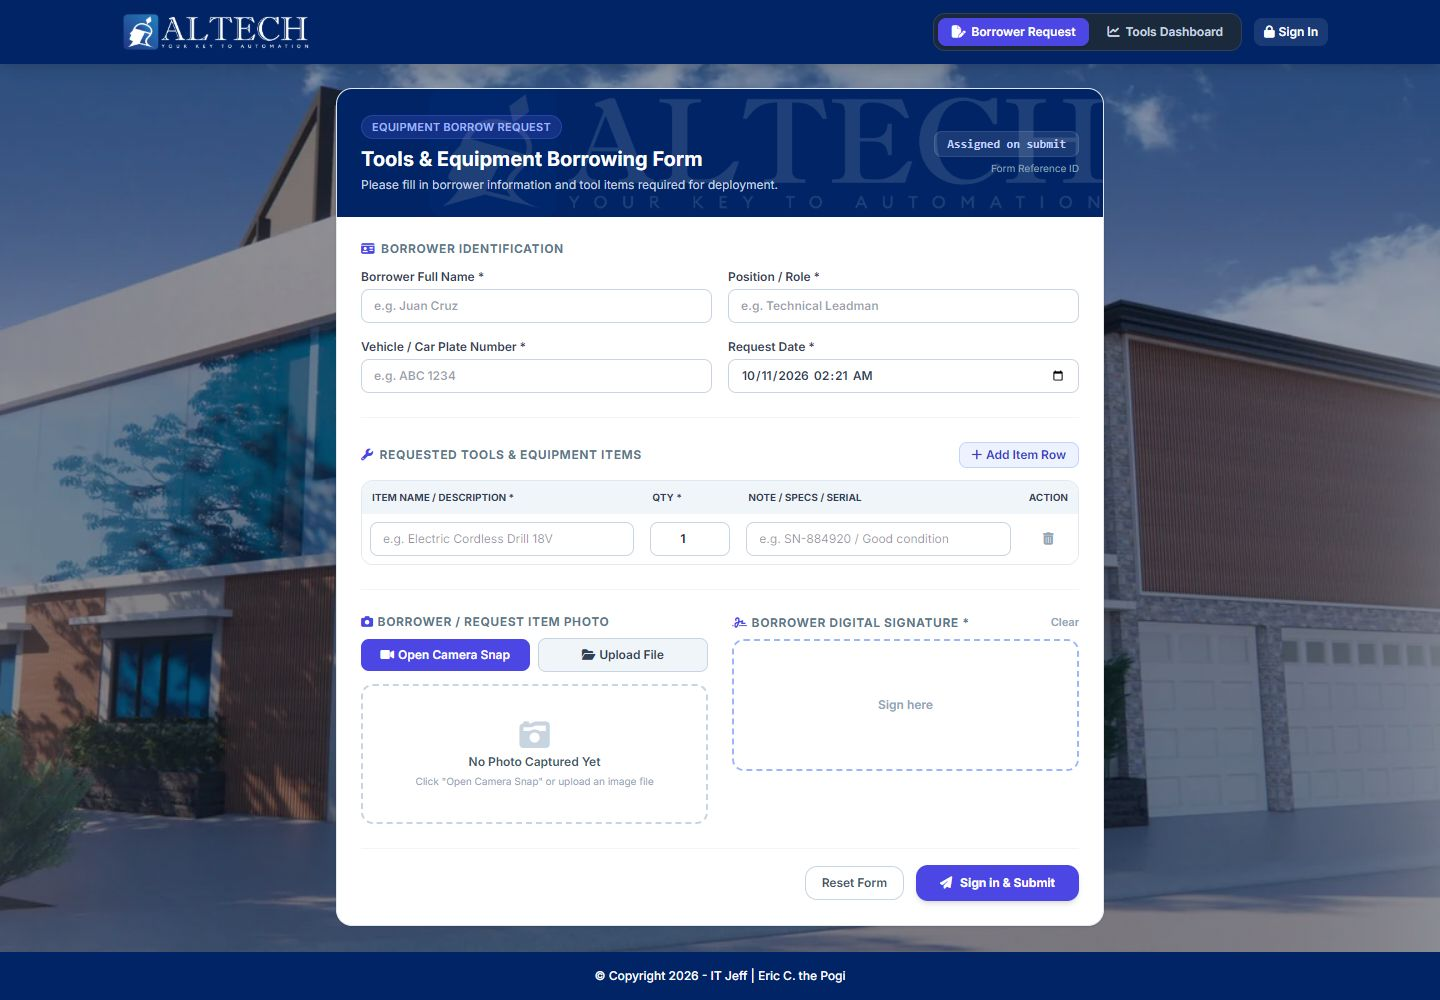
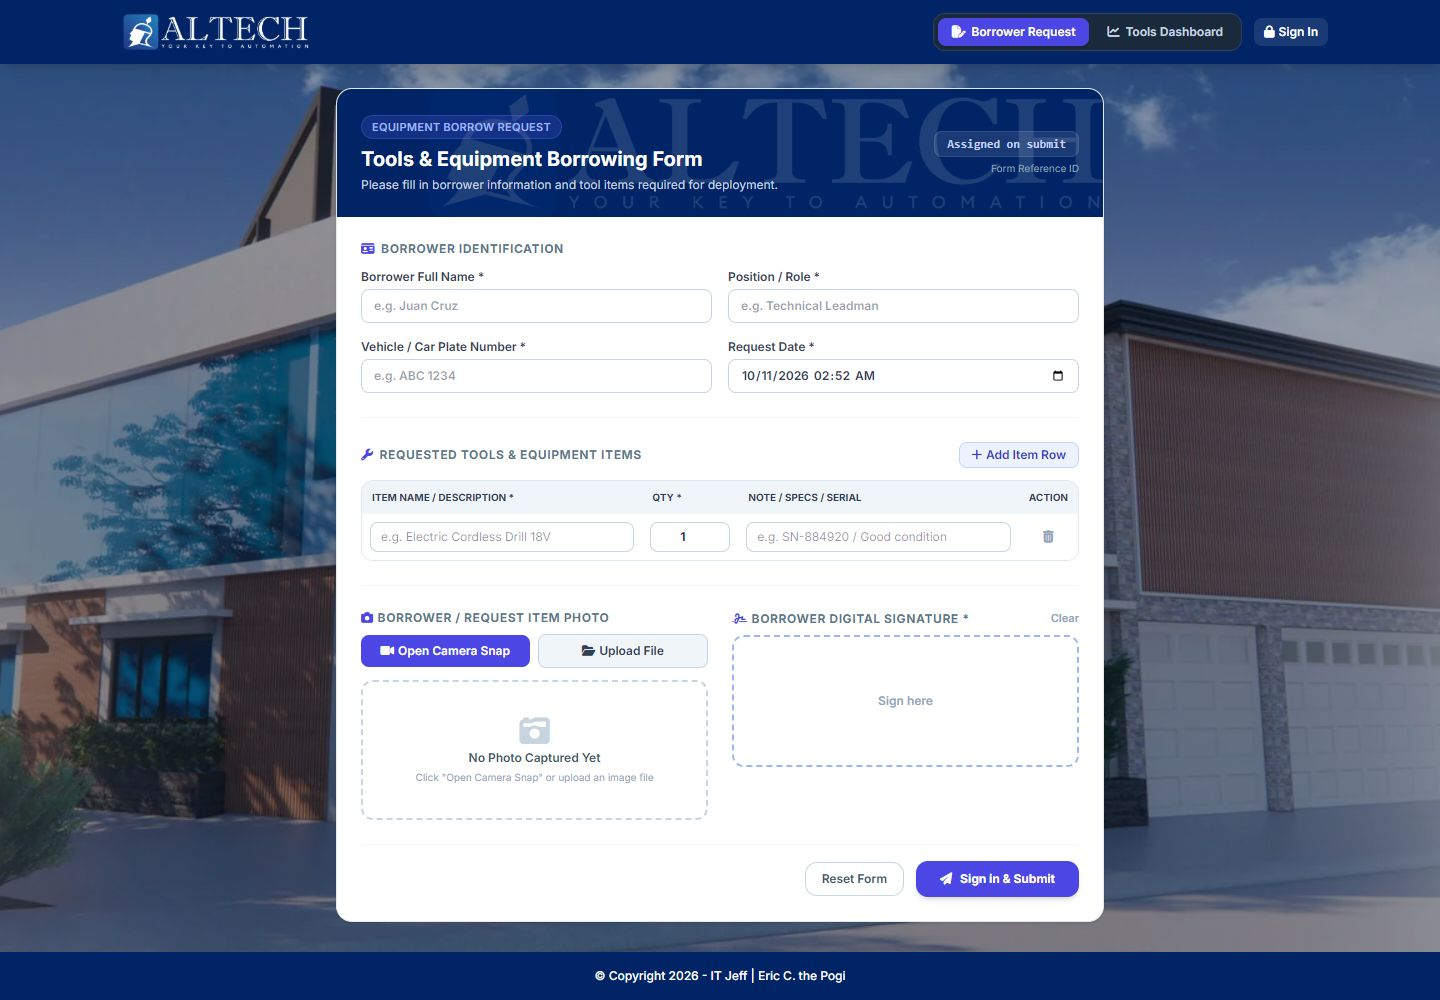
Document verified browser request lifecycle

diff --git a/docs/verification.md b/docs/verification.md
@@ -9,6 +9,7 @@
 - npm audit reports zero known vulnerabilities for the installed dependency tree. Sharp/Tailwind were upgraded; the ExcelJS UUID dependency is overridden to a patched compatible release. Catalog import uses the official SheetJS 0.20.3 distribution.
 - Browser preview connects to the live API. ALTECH logos, actual company background and header watermark load. Computed navbar/form hero/footer colors are rgb(0,35,102), exactly #002366.
 - Desktop viewport 1440×1000 and phone viewport 390×844 inspected. Phone document width is 375px (vertical scrollbar included), with no whole-page horizontal overflow; the tool table scrolls within its container. Added a second row, edited name/quantity, and reset back to one row in the browser.
+- Browser workflow passed against the live API: secure Developer login, selected-date submission, photo upload and pointer-drawn signature, dashboard counts, handover, complete return with another photo/signature, closed status and completed record lock. All four private images loaded after reopening the record. The synthetic request and its files were removed afterward to restore the clean preview database.
 - Git ignores .env, encrypted bootstrap credentials, database files and private uploads. The original source is preserved unchanged.
 
 Screenshots: [desktop](screenshots/borrower-desktop.jpg), [phone](screenshots/borrower-mobile.jpg).
@@ -21,7 +22,7 @@ The installed MySQL directory contained Workbench's client only. Official MySQL 
 
 1. Run the integration suite and setup/migration checks against MySQL 8.4; run the supplied CI workflow and build/start the Docker production images. Docker is not installed locally, so container builds and Caddy certificate issuance have not been tested here.
 2. Choose cloud provider/project, region and domain; provision managed MySQL, production secrets and encrypted persistent uploads. Deploy, verify HTTPS, private database connectivity and provider backups. No cloud resources have been provisioned and no public deployment URL exists yet.
-3. Run browser end-to-end submission, signature, live-camera and handover/return acceptance on actual desktop and mobile devices. Real camera permissions/hardware and touch signature behavior have not been exercised; the capture components are implemented and upload validation is tested with synthetic images.
+3. Run acceptance on actual desktop and mobile devices. Real camera permissions/hardware and touch signature behavior have not been exercised; desktop browser submission, pointer signatures, file uploads and handover/return passed with synthetic images.
 4. Verify shared records from separate real devices/locations and browser closure; backend fresh-session persistence is tested, but multi-location internet access requires the deployed host.
 5. Execute a paired database/file backup and restore drill on the target environment; document the measured recovery point and time.
 
